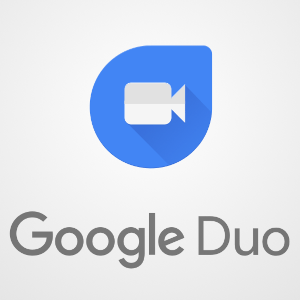
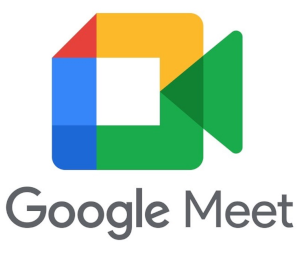
16.67 Duo -> Meet

diff --git a/src/main/java/com/tonikelope/coronapoker/WaitingRoomFrame.java b/src/main/java/com/tonikelope/coronapoker/WaitingRoomFrame.java
@@ -1840,6 +1840,7 @@ public class WaitingRoomFrame extends javax.swing.JFrame {
 
                                                         case "VIDEOCHAT":
                                                             setVideo_chat_link(new String(Base64.decodeBase64(partes_comando[3]), "UTF-8"));
+
                                                             break;
 
                                                         case "PAUSE":
@@ -3874,6 +3875,12 @@ public class WaitingRoomFrame extends javax.swing.JFrame {
             } catch (UnsupportedEncodingException ex) {
                 Logger.getLogger(WaitingRoomFrame.class.getName()).log(Level.SEVERE, null, ex);
             }
+
+            String chat_msg = Translator.translate("SE HA ACTUALIZADO EL ENLACE DEL VIDEOCHAT");
+
+            chatHTMLAppend(local_nick + ":(" + Helpers.getLocalTimeString() + ") " + chat_msg + "\n");
+
+            enviarMensajeChat(local_nick, chat_msg);
         }
 
         chat_box.requestFocus();

diff --git a/src/main/java/com/tonikelope/coronapoker/QRChatDialog.java b/src/main/java/com/tonikelope/coronapoker/QRChatDialog.java
@@ -287,7 +287,7 @@ public class QRChatDialog extends javax.swing.JDialog implements ClipboardChange
             }
 
         } else if (cboard_monitor) {
-            Helpers.openBrowserURL("https://duo.google.com");
+            Helpers.openBrowserURL("https://meet.google.com");
         }
     }//GEN-LAST:event_icon_labelMouseClicked
 
@@ -301,7 +301,7 @@ public class QRChatDialog extends javax.swing.JDialog implements ClipboardChange
             Helpers.mostrarMensajeInformativo(this, "¡ENLACE COPIADO EN EL PORTAPAPELES!");
 
         } else if (cboard_monitor) {
-            Helpers.openBrowserURL("https://duo.google.com");
+            Helpers.openBrowserURL("https://meet.google.com");
         }
     }//GEN-LAST:event_qr_statusMouseClicked
 

diff --git a/src/main/java/com/tonikelope/coronapoker/AboutDialog.java b/src/main/java/com/tonikelope/coronapoker/AboutDialog.java
@@ -55,7 +55,7 @@ import javax.swing.Timer;
  */
 public class AboutDialog extends javax.swing.JDialog {
 
-    public static final String VERSION = "16.66";
+    public static final String VERSION = "16.67";
     public static final String UPDATE_URL = "https://github.com/tonikelope/coronapoker/releases/latest";
     public static final String TITLE = "¿De dónde ha salido esto?";
     public static final int MAX_MOD_LOGO_HEIGHT = 75;

diff --git a/src/main/java/com/tonikelope/coronapoker/Translator.java b/src/main/java/com/tonikelope/coronapoker/Translator.java
@@ -45,6 +45,7 @@ public class Translator {
     private static void English() {
 
         String[][] rosetta = {
+            {"SE HA ACTUALIZADO EL ENLACE DEL VIDEOCHAT", "THE VIDEOCHAT LINK HAS BEEN UPDATED"},
             {"MANOS GANADAS", "HANDS WON"},
             {"NO HAY JUGADORES HUMANOS CONECTADOS", "THERE ARE NO HUMAN PLAYERS CONNECTED"},
             {"FORZAR RECONEXIÓN JUGADORES", "FORCE PLAYERS RECONNECTION"},
